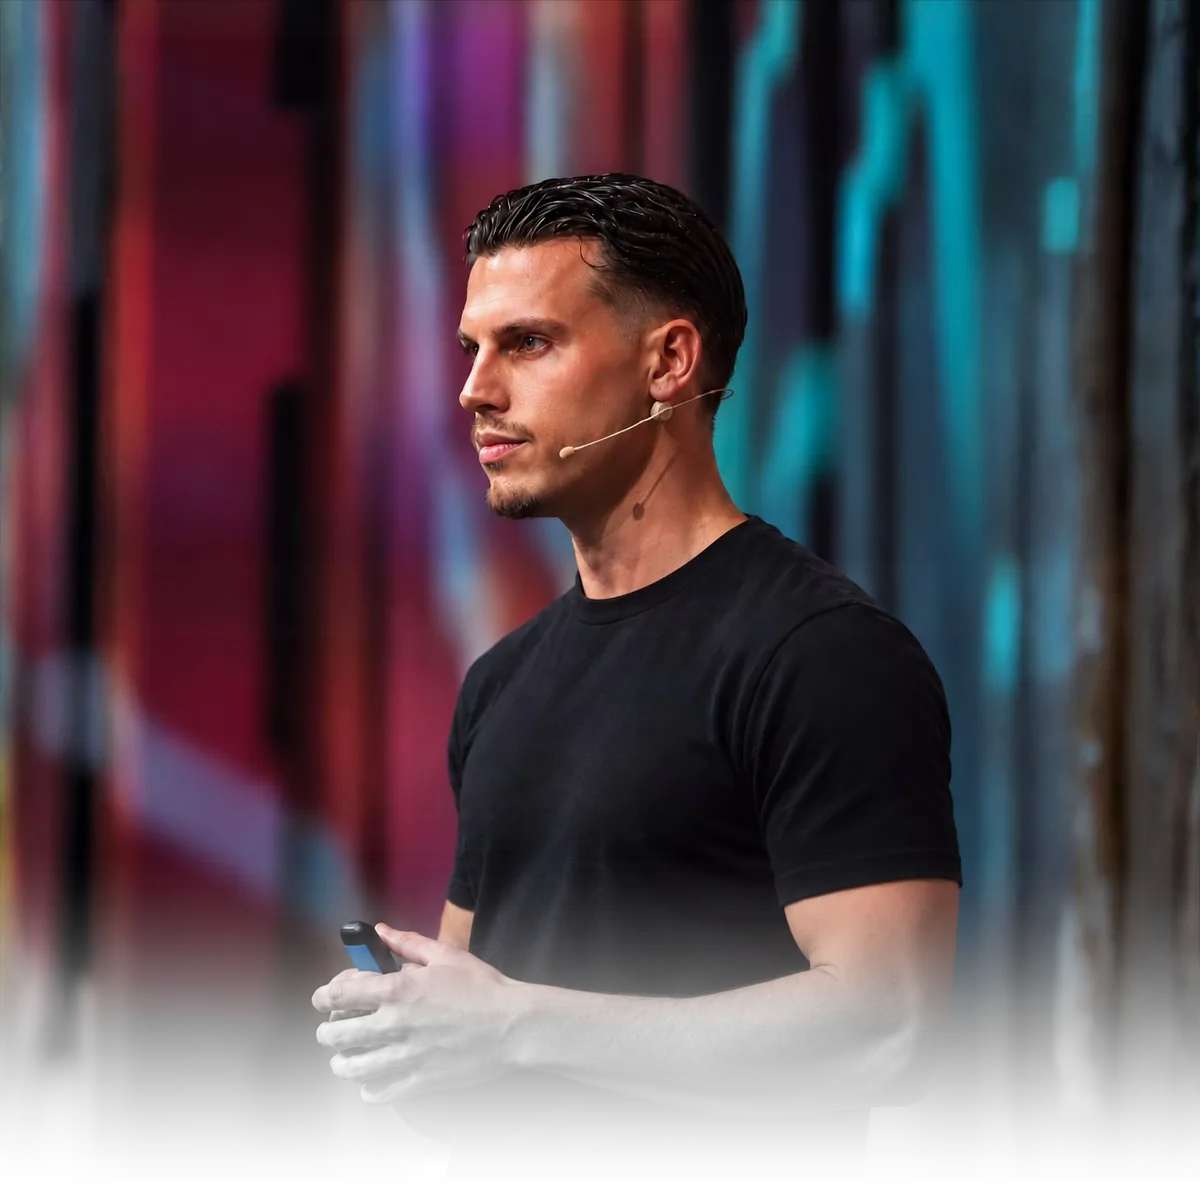
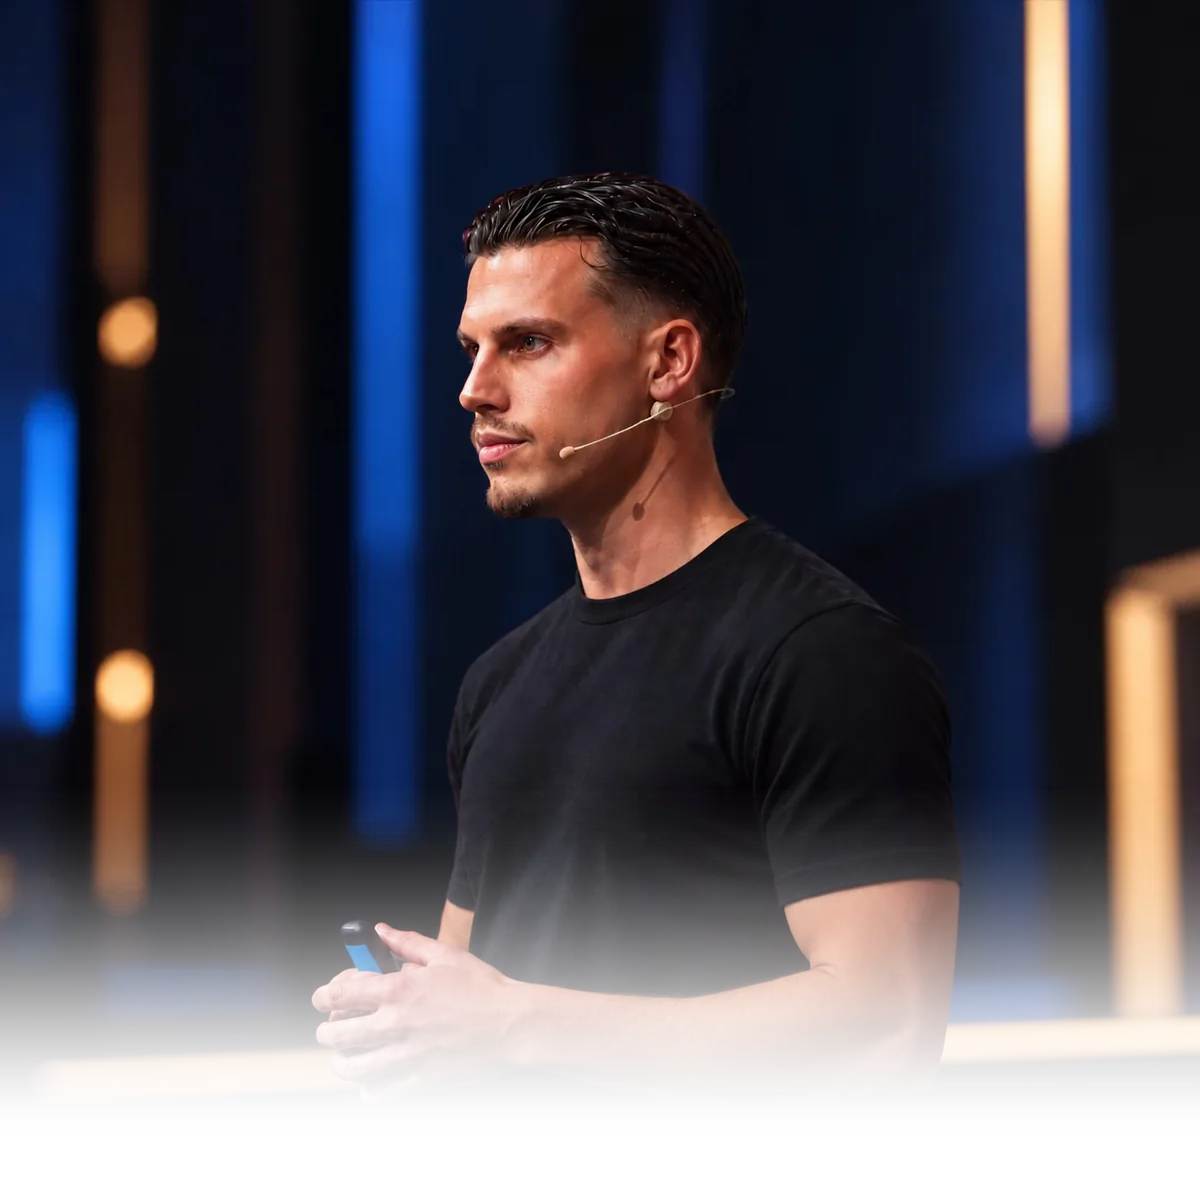
VDSolutions in cobalt, new stage photo, dark header with glow line
- Booking button, name gradient, accents and logos in cobalt
- Stage photo with blue light, fade without desaturation
- Header: solid #1C1D21 turning to glass on scroll, brand-coloured
  light edge, 56/68/76 px high

diff --git a/styles.css b/styles.css
@@ -338,15 +338,15 @@ body {
    „sprechen.“ in den Kundenstimmen. */
 .name__accent {
   font-style: italic;
-  font-weight: 700;
-  color: var(--name-4);
+  font-weight: 680;
+  color: var(--name-fallback, var(--name-4));
   /* Platz für den Überhang der Kursiven, ohne den Satz zu verschieben */
   padding-inline: 0.03em 0.09em;
   margin-inline: -0.03em -0.09em;
 }
 @supports (-webkit-background-clip: text) or (background-clip: text) {
   .name__accent {
-    background-image: linear-gradient(100deg, var(--name-1) 0%, var(--name-2) 42%, var(--name-3) 62%, var(--name-4) 100%);
+    background-image: linear-gradient(100deg, var(--name-1) 0%, var(--name-2) 45%, var(--name-3) 65%, var(--name-4) 100%);
     -webkit-background-clip: text;
     background-clip: text;
     -webkit-text-fill-color: transparent;
@@ -417,7 +417,8 @@ body {
   position: fixed;
   inset: 0 0 auto 0;
   z-index: 10;
-  height: var(--header-h);
+  height: calc(var(--header-h) + env(safe-area-inset-top));
+  padding-top: env(safe-area-inset-top);
   padding-inline: max(20px, env(safe-area-inset-left)) max(20px, env(safe-area-inset-right));
   display: flex;
   align-items: center;
@@ -437,10 +438,10 @@ body {
 }
 /* Sprungziele und Fokus nicht unter der fixierten Leiste verstecken */
 html {
-  scroll-padding-top: 72px;
+  scroll-padding-top: calc(var(--header-h) + 16px);
 }
 .site-header__logo {
-  --logo-h: 17px;
+  --logo-h: 17.83px;
   display: grid;
 }
 .site-header__logo > img {
@@ -458,7 +459,7 @@ html {
 .site-header__logo > img {
   height: calc(var(--logo-h) * 1.1);
 }
-/* VDSolutions-Logo (Petrol): gleich breit wie Speed2Lead (750 : 96
+/* VDSolutions-Logo (Kobalt): gleich breit wie Speed2Lead (750 : 96
    gegenüber 612 : 96), damit beide gleich groß wirken */
 .site-header__logo > img[data-brand-only="vdsolutions"] {
   height: calc(var(--logo-h) * 1.1 * 612 / 750);
@@ -473,13 +474,21 @@ html {
 }
 @media (min-width: 768px) {
   :root {
-    --header-h: 64px;
+    --header-h: 68px;
   }
   .site-header {
     padding-inline: max(32px, calc((100vw - 1120px) / 2));
   }
   .site-header__logo {
-    --logo-h: 19.5px;
+    --logo-h: 20.05px;
+  }
+}
+@media (min-width: 1024px) {
+  :root {
+    --header-h: 76px;
+  }
+  .site-header__logo {
+    --logo-h: 22.28px;
   }
 }
 
@@ -1281,11 +1290,11 @@ body:has(.about-dialog[open]) {
    folgenden (--dot-next). Der Strich blendet zwischen beiden über, dadurch
    wirkt die Kette trotz einzeln gefärbter Abschnitte wie ein Verlauf. */
 /* Farbreihe von hell (Anfang) nach satt (heute) in der Markenfarbe:
-   Petrol bei VDSolutions, Orange bei Speed2Lead */
+   Kobalt bei VDSolutions, Orange bei Speed2Lead */
 .timeline {
-  --tl-1: #cfe3e8; --tl-2: #a9ccd5; --tl-3: #7fb0bd; --tl-4: #5293a3;
-  --tl-5: #2c778a; --tl-6: #0f5f72; --tl-7: #003c4b;
-  --tl-halo: rgb(0 80 97 / 0.16);
+  --tl-1: #d8e7fc; --tl-2: #b7d2f8; --tl-3: #8fb8f3; --tl-4: #5f98ea;
+  --tl-5: #357be3; --tl-6: #1565e0; --tl-7: #0048a4;
+  --tl-halo: rgb(53 123 227 / 0.16);
 }
 :root[data-brand="speed2lead"] .timeline {
   --tl-1: #ffdcc8; --tl-2: #ffc09c; --tl-3: #ffa16e; --tl-4: #ff8243;
@@ -2338,11 +2347,49 @@ body:has(.about-dialog[open]) {
 :root[data-brand="speed2lead"] {
   --focus-ring: #ff8a50;
 }
-:root[data-brand="speed2lead"] .site-header {
-  background-color: rgb(20 20 20 / 0.52);
-  box-shadow:
-    inset 0 -1px 0 rgb(255 255 255 / 0.08),
-    0 10px 30px -20px rgb(0 0 0 / 0.7);
+/* Dunkle Kopfleiste (Vorgabe vom 25.10.2026): ganz oben deckend #1C1D21,
+   eine Spur heller als der Grund #141414, damit sie nicht mit dem Foto
+   verschmilzt; Haarlinie und weicher Schatten nach unten. Beim Scrollen
+   (.is-scrolled, gesetzt in app.js) wird sie zu dunklem Glas. Unten eine
+   Lichtkante in der Markenfarbe, die zu den Rändern ausläuft. */
+:root[data-brand="speed2lead"] .site-header,
+:root[data-brand="vdsolutions"] .site-header {
+  background-color: #1c1d21;
+  background-image: none;
+  border-bottom: 1px solid rgb(255 255 255 / 0.08);
+  box-shadow: 0 10px 28px -20px rgb(0 0 0 / 0.9);
+  -webkit-backdrop-filter: saturate(1.5) blur(14px);
+  backdrop-filter: saturate(1.5) blur(14px);
+  transition:
+    background-color 0.35s ease-out,
+    box-shadow 0.35s ease-out;
+}
+:root[data-brand="speed2lead"] .site-header.is-scrolled,
+:root[data-brand="vdsolutions"] .site-header.is-scrolled {
+  background-color: rgb(28 29 33 / 0.72);
+}
+.site-header::after {
+  content: "";
+  position: absolute;
+  bottom: -1px;
+  left: 0;
+  right: 0;
+  height: 1px;
+  background: linear-gradient(90deg,
+    transparent 0%,
+    var(--header-line-1) 30%,
+    var(--header-line-2) 50%,
+    var(--header-line-1) 70%,
+    transparent 100%);
+  pointer-events: none;
+}
+:root {
+  --header-line-1: rgb(53 123 227 / 0.36);
+  --header-line-2: rgb(133 178 246 / 0.5);
+}
+:root[data-brand="speed2lead"] {
+  --header-line-1: rgb(255 106 36 / 0.36);
+  --header-line-2: rgb(255 160 110 / 0.5);
 }
 /* Ohne Weichzeichner (ältere Browser) oder wenn das System weniger
    Transparenz wünscht: fast deckend, damit Logo und Icons lesbar bleiben */
@@ -2350,16 +2397,20 @@ body:has(.about-dialog[open]) {
   .site-header {
     background-color: rgb(255 255 255 / 0.94);
   }
-  :root[data-brand="speed2lead"] .site-header {
-    background-color: rgb(20 20 20 / 0.94);
+  :root[data-brand="speed2lead"] .site-header,
+  :root[data-brand="vdsolutions"] .site-header.is-scrolled,
+  :root[data-brand="speed2lead"] .site-header.is-scrolled {
+    background-color: rgb(28 29 33 / 0.96);
   }
 }
 @media (prefers-reduced-transparency: reduce) {
   .site-header {
     background-color: rgb(255 255 255 / 0.96);
   }
-  :root[data-brand="speed2lead"] .site-header {
-    background-color: rgb(20 20 20 / 0.96);
+  :root[data-brand="speed2lead"] .site-header,
+  :root[data-brand="vdsolutions"] .site-header.is-scrolled,
+  :root[data-brand="speed2lead"] .site-header.is-scrolled {
+    background-color: rgb(28 29 33 / 0.96);
   }
 }
 .name,
@@ -2502,53 +2553,52 @@ body:has(.about-dialog[open]) {
   }
 }
 
-/* VDSolutions: Termin-Button in leuchtendem Petrol (nach Vorgabe vom
-   23.10.2026) — Verlauf #0A5566 (Ränder) → #1487A0 (Mitte), Grundfarbe
-   #0D697D, Schein von unten rgba(220,246,252,.62) → rgba(120,205,225,.36),
-   Lichtpunkt oben 26 %, Kontur rgba(140,210,228,.55), Schatten
-   rgba(20,135,160,.45), Lichtkante 28 %. Speed2Lead bleibt Orange. */
+/* VDSolutions: Farbsystem „Kobalt“ (nach Vorgabe vom 25.10.2026),
+   Variante für dunklen Grund — Verlauf #1565E0 (Ränder) → #3279E6 (Mitte),
+   Grundfarbe #357BE3, Schein von unten rgba(225,236,255,.28) →
+   rgba(136,183,250,.16), Lichtpunkt oben 26 %, Kontur rgba(155,197,255,.55),
+   Schatten rgba(53,123,227,.28), Lichtkante 28 %, Glanzstreifen 24 %.
+   Calendly-Knopf mit Kobalt-Schatten. Speed2Lead bleibt Orange. */
 :root[data-brand="vdsolutions"] {
-  --cta-base: #0d697d;
-  --cta-edge: #0a5566;
-  --cta-mid: #1487a0;
-  --cta-glow: rgb(220 246 252 / 0.62);
-  --cta-glow-2: rgb(120 205 225 / 0.36);
-  --cta-glow-3: rgb(80 175 200 / 0);
-  --cta-ring: rgb(140 210 228 / 0.55);
-  --cta-drop: rgb(20 135 160 / 0.45);
+  --cta-base: #357be3;
+  --cta-edge: #1565e0;
+  --cta-mid: #3279e6;
+  --cta-glow: rgb(225 236 255 / 0.28);
+  --cta-glow-2: rgb(136 183 250 / 0.16);
+  --cta-glow-3: rgb(89 151 241 / 0);
+  --cta-ring: rgb(155 197 255 / 0.55);
+  --cta-drop: rgb(53 123 227 / 0.28);
   --cta-sheen: rgb(255 255 255 / 0.26);
   --cta-light: rgb(255 255 255 / 0.28);
-  --badge-drop: rgb(0 30 40 / 0.35);
-  --badge-drop-2: rgb(0 30 40 / 0.28);
-  --badge-tint: rgb(0 60 75 / 0.07);
-  --badge-edge: rgb(0 44 56 / 0.12);
-  --badge-inner: rgb(0 44 56 / 0.08);
-  /* Nachname: helle Petroltöne, damit er auf Anthrazit leuchtet */
-  --name-1: #4f97aa;
-  --name-2: #78b6c6;
-  --name-3: #a6d2dd;
-  --name-4: #5ea4b6;
-  /* Schein hinter Block und Abschluss-Button: das Button-Petrol ist dafür
-     zu dunkel */
-  --accent-glow: #1f8199;
+  --cta-gloss: rgb(255 255 255 / 0.24);
+  --badge-drop: rgb(0 24 66 / 0.3);
+  --badge-drop-2: rgb(0 24 66 / 0.24);
+  --badge-tint: rgb(22 82 176 / 0.07);
+  --badge-edge: rgb(0 48 121 / 0.12);
+  --badge-inner: rgb(0 48 121 / 0.08);
+  /* Nachname: Kobalt-Textverlauf für dunklen Grund (Vorgabe 25.10.2026),
+     Ersatzfarbe ohne Text-Verlauf #85B2F6 */
+  --name-1: #4497ff;
+  --name-2: #6eb1ff;
+  --name-3: #92c7ff;
+  --name-4: #539dff;
+  --name-fallback: #85b2f6;
+  /* Schein hinter Block und Abschluss-Button */
+  --accent-glow: #2f6fd6;
 }
 .cta .btn-content--vdsolutions {
-  text-shadow: 0 1px 2px rgb(0 35 45 / 0.4);
+  text-shadow: 0 1px 2px rgb(0 30 77 / 0.4);
 }
 
 /* VDSolutions dunkel: Anthrazit, dunkles Glas, helle Schrift; auch das
    Kundenstimmen-Blatt bleibt dunkel (weiße Logos, helles Gold) */
 :root[data-brand="vdsolutions"] {
-  --focus-ring: #99b9c3;
+  --focus-ring: #85b2f6;
 }
 :root[data-brand="vdsolutions"] body {
   background-color: #141414;
 }
 :root[data-brand="vdsolutions"] .site-header {
-  background-color: rgb(20 20 20 / 0.52);
-  box-shadow:
-    inset 0 -1px 0 rgb(255 255 255 / 0.08),
-    0 10px 30px -20px rgb(0 0 0 / 0.7);
   --chip-ink: rgb(255 255 255 / 0.92);
   --chip-fill: rgb(255 255 255 / 0.06);
   --chip-fill-hover: rgb(255 255 255 / 0.12);
@@ -2563,7 +2613,7 @@ body:has(.about-dialog[open]) {
   color: #d2d2d2;
 }
 :root[data-brand="vdsolutions"] .cta {
-  --cta-focus: #99b9c3;
+  --cta-focus: #85b2f6;
 }
 :root[data-brand="vdsolutions"] .btn-secondary {
   background-color: #242424;
@@ -2579,7 +2629,7 @@ body:has(.about-dialog[open]) {
     0 1px 2px rgb(0 0 0 / 0.4);
 }
 :root[data-brand="vdsolutions"] .btn-secondary:focus-visible {
-  outline-color: #99b9c3;
+  outline-color: #85b2f6;
 }
 :root[data-brand="vdsolutions"] .brand-seg {
   --seg-bg: #1f1f1f;
@@ -2596,11 +2646,11 @@ body:has(.about-dialog[open]) {
   color: #767676;
 }
 :root[data-brand="vdsolutions"] .voices {
-  --v-glow: rgb(31 129 153 / 0.18);
-  --v-accent: #78b6c6;
-  --v-play: rgb(13 105 125 / 0.94);
-  --v-play-shadow: rgb(0 30 40 / 0.6);
-  --v-focus: #99b9c3;
+  --v-glow: rgb(53 123 227 / 0.18);
+  --v-accent: #85b2f6;
+  --v-play: rgb(53 123 227 / 0.94);
+  --v-play-shadow: rgb(0 24 66 / 0.6);
+  --v-focus: #85b2f6;
 }
 
 /* Lichtreflex auf dem Termin-Button: alle 5 s gleitet ein weißer
@@ -2617,10 +2667,10 @@ body:has(.about-dialog[open]) {
   inset: 0;
   z-index: 1;
   border-radius: inherit;
-  background: linear-gradient(105deg,
-    rgb(255 255 255 / 0) 38%,
-    rgb(255 255 255 / 0.36) 50%,
-    rgb(255 255 255 / 0) 62%) no-repeat;
+  background: linear-gradient(110deg,
+    rgb(255 255 255 / 0) 30%,
+    var(--cta-gloss, rgb(255 255 255 / 0.36)) 48%,
+    rgb(255 255 255 / 0) 64%) no-repeat;
   background-size: 260% 100%;
   background-position: 160% 0;
   pointer-events: none;
@@ -2853,9 +2903,11 @@ body:has(.about-dialog[open]) {
     line-height: 1.02;
     letter-spacing: -0.045em;
   }
-  /* immer zweizeilig: „Niclas“ / „van der Straeten“ */
+  /* immer zweizeilig: „Niclas“ / „van der Straeten“; am Desktop etwas
+     kräftiger (700 statt 680) */
   .name__accent {
     display: block;
+    font-weight: 700;
   }
   .bio {
     grid-area: bio;

diff --git a/app.js b/app.js
@@ -309,6 +309,15 @@ function wireAboutDialog() {
   });
 }
 
+// Kopfleiste: ganz oben deckend, sobald gescrollt wird dunkles Glas
+function wireHeaderScroll() {
+  const header = document.querySelector(".site-header");
+  if (!header) return;
+  const update = () => header.classList.toggle("is-scrolled", window.scrollY > 4);
+  window.addEventListener("scroll", update, { passive: true });
+  update();
+}
+
 // Buttons bauen: oben beide, am Ende des dunklen Blatts nur der Termin-Button
 function renderLinks() {
   document.getElementById("main-links").append(createBrandButton("primary"), createBrandButton("secondary"));
@@ -567,5 +576,6 @@ buildVoices();
 renderLinks();
 updateVoiceTexts();
 wireAboutDialog();
+wireHeaderScroll();
 applyBrand(brandFromUrl(), { animate: false });
 wireBrandSwitch();

diff --git a/CREDITS.md b/CREDITS.md
@@ -64,13 +64,13 @@ Schild „Platzhalter“, bis echte Videos da sind.
 ## Eigene Inhalte
 
 - `assets/fotos/niclas-buehne-800.webp`, `assets/fotos/niclas-buehne-1200.webp`
-  — Bühnenfoto oben auf der Seite, unten ausgeblendet
-  (`quellen/skripte/buehnenfoto_erzeugen.js`); `assets/fotos/niclas-profil.jpg`
-  — dasselbe Foto quadratisch als Profilbild für Suchmaschinen. Original:
-  `quellen/fotos/`. Die Rechte liegen vor, eine Urhebernennung ist nicht
+  — Bühnenfoto oben auf der Seite (seit 25.10.2026 mit blauem Bühnenlicht),
+  unten ausgeblendet (`quellen/skripte/buehnenfoto_erzeugen.js`);
+  `assets/fotos/niclas-profil.jpg` — das frühere Bühnenfoto quadratisch als
+  Profilbild für Suchmaschinen. Originale: `quellen/fotos/`. Die Rechte liegen vor, eine Urhebernennung ist nicht
   erforderlich (bestätigt am 19.10.2026).
-- `assets/marken/vdsolutions/` — Logo im Header (eigenes Logo mit
-  Petrol-Akzenten), das VDS-Zeichen und das Calendly-Zeichen in Petrol.
+- `assets/marken/vdsolutions/` — Logo im Header (eigenes Logo, Akzente
+  in Kobalt umgefärbt), das VDS-Zeichen und das Calendly-Zeichen in Kobalt.
   `assets/marken/speed2lead/` — Logo (weiß/orange), das eigene
   Speed2Lead-Bildzeichen und das Calendly-Zeichen in Orange. Alle vom Inhaber
   geliefert, Originale in `quellen/marken/`. Das Calendly-Logo ist eine Marke

diff --git a/README.md b/README.md
@@ -1,7 +1,7 @@
 # niclasvanderstraeten.com
 
 Linkseite von Niclas van der Straeten mit zwei Marken: **VDSolutions**
-(Standard, Petrol) und **Speed2Lead** (Orange, `?brand=speed2lead`).
+(Standard, Kobalt) und **Speed2Lead** (Orange, `?brand=speed2lead`).
 Reines HTML/CSS/JS ohne Build. Jeder Push auf `main` geht über Vercel live.
 
 ## Ordnerstruktur
